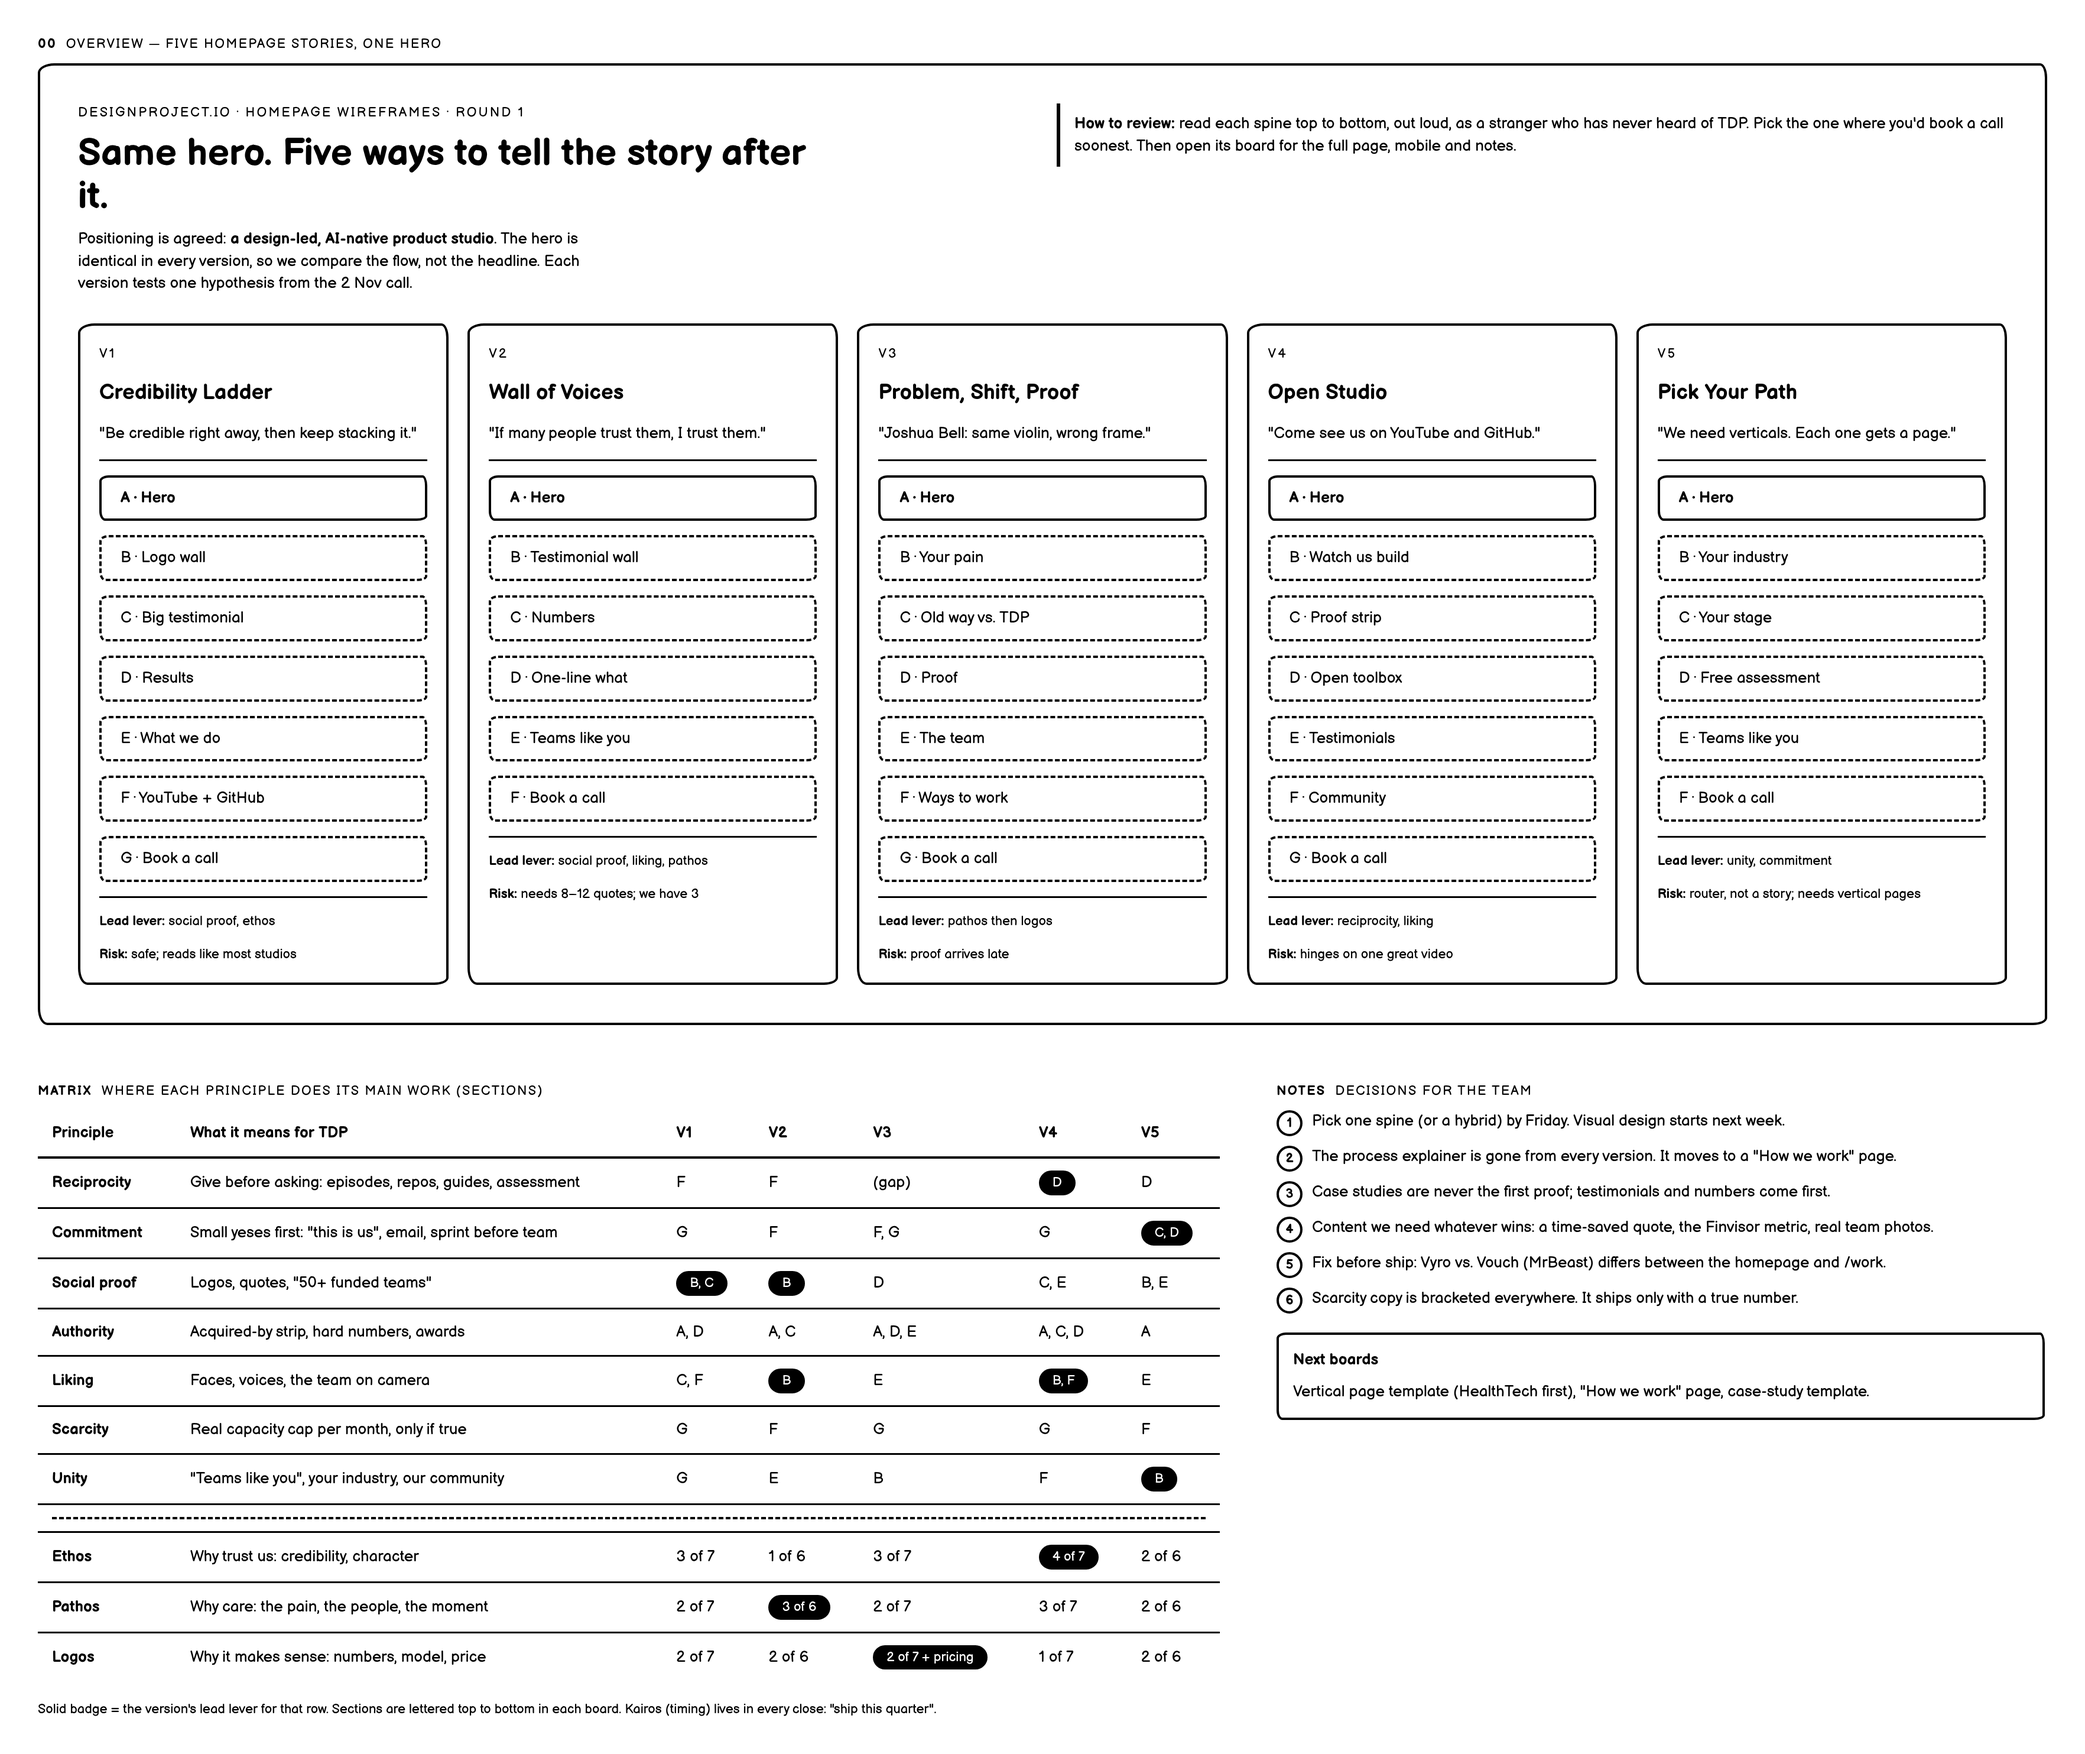
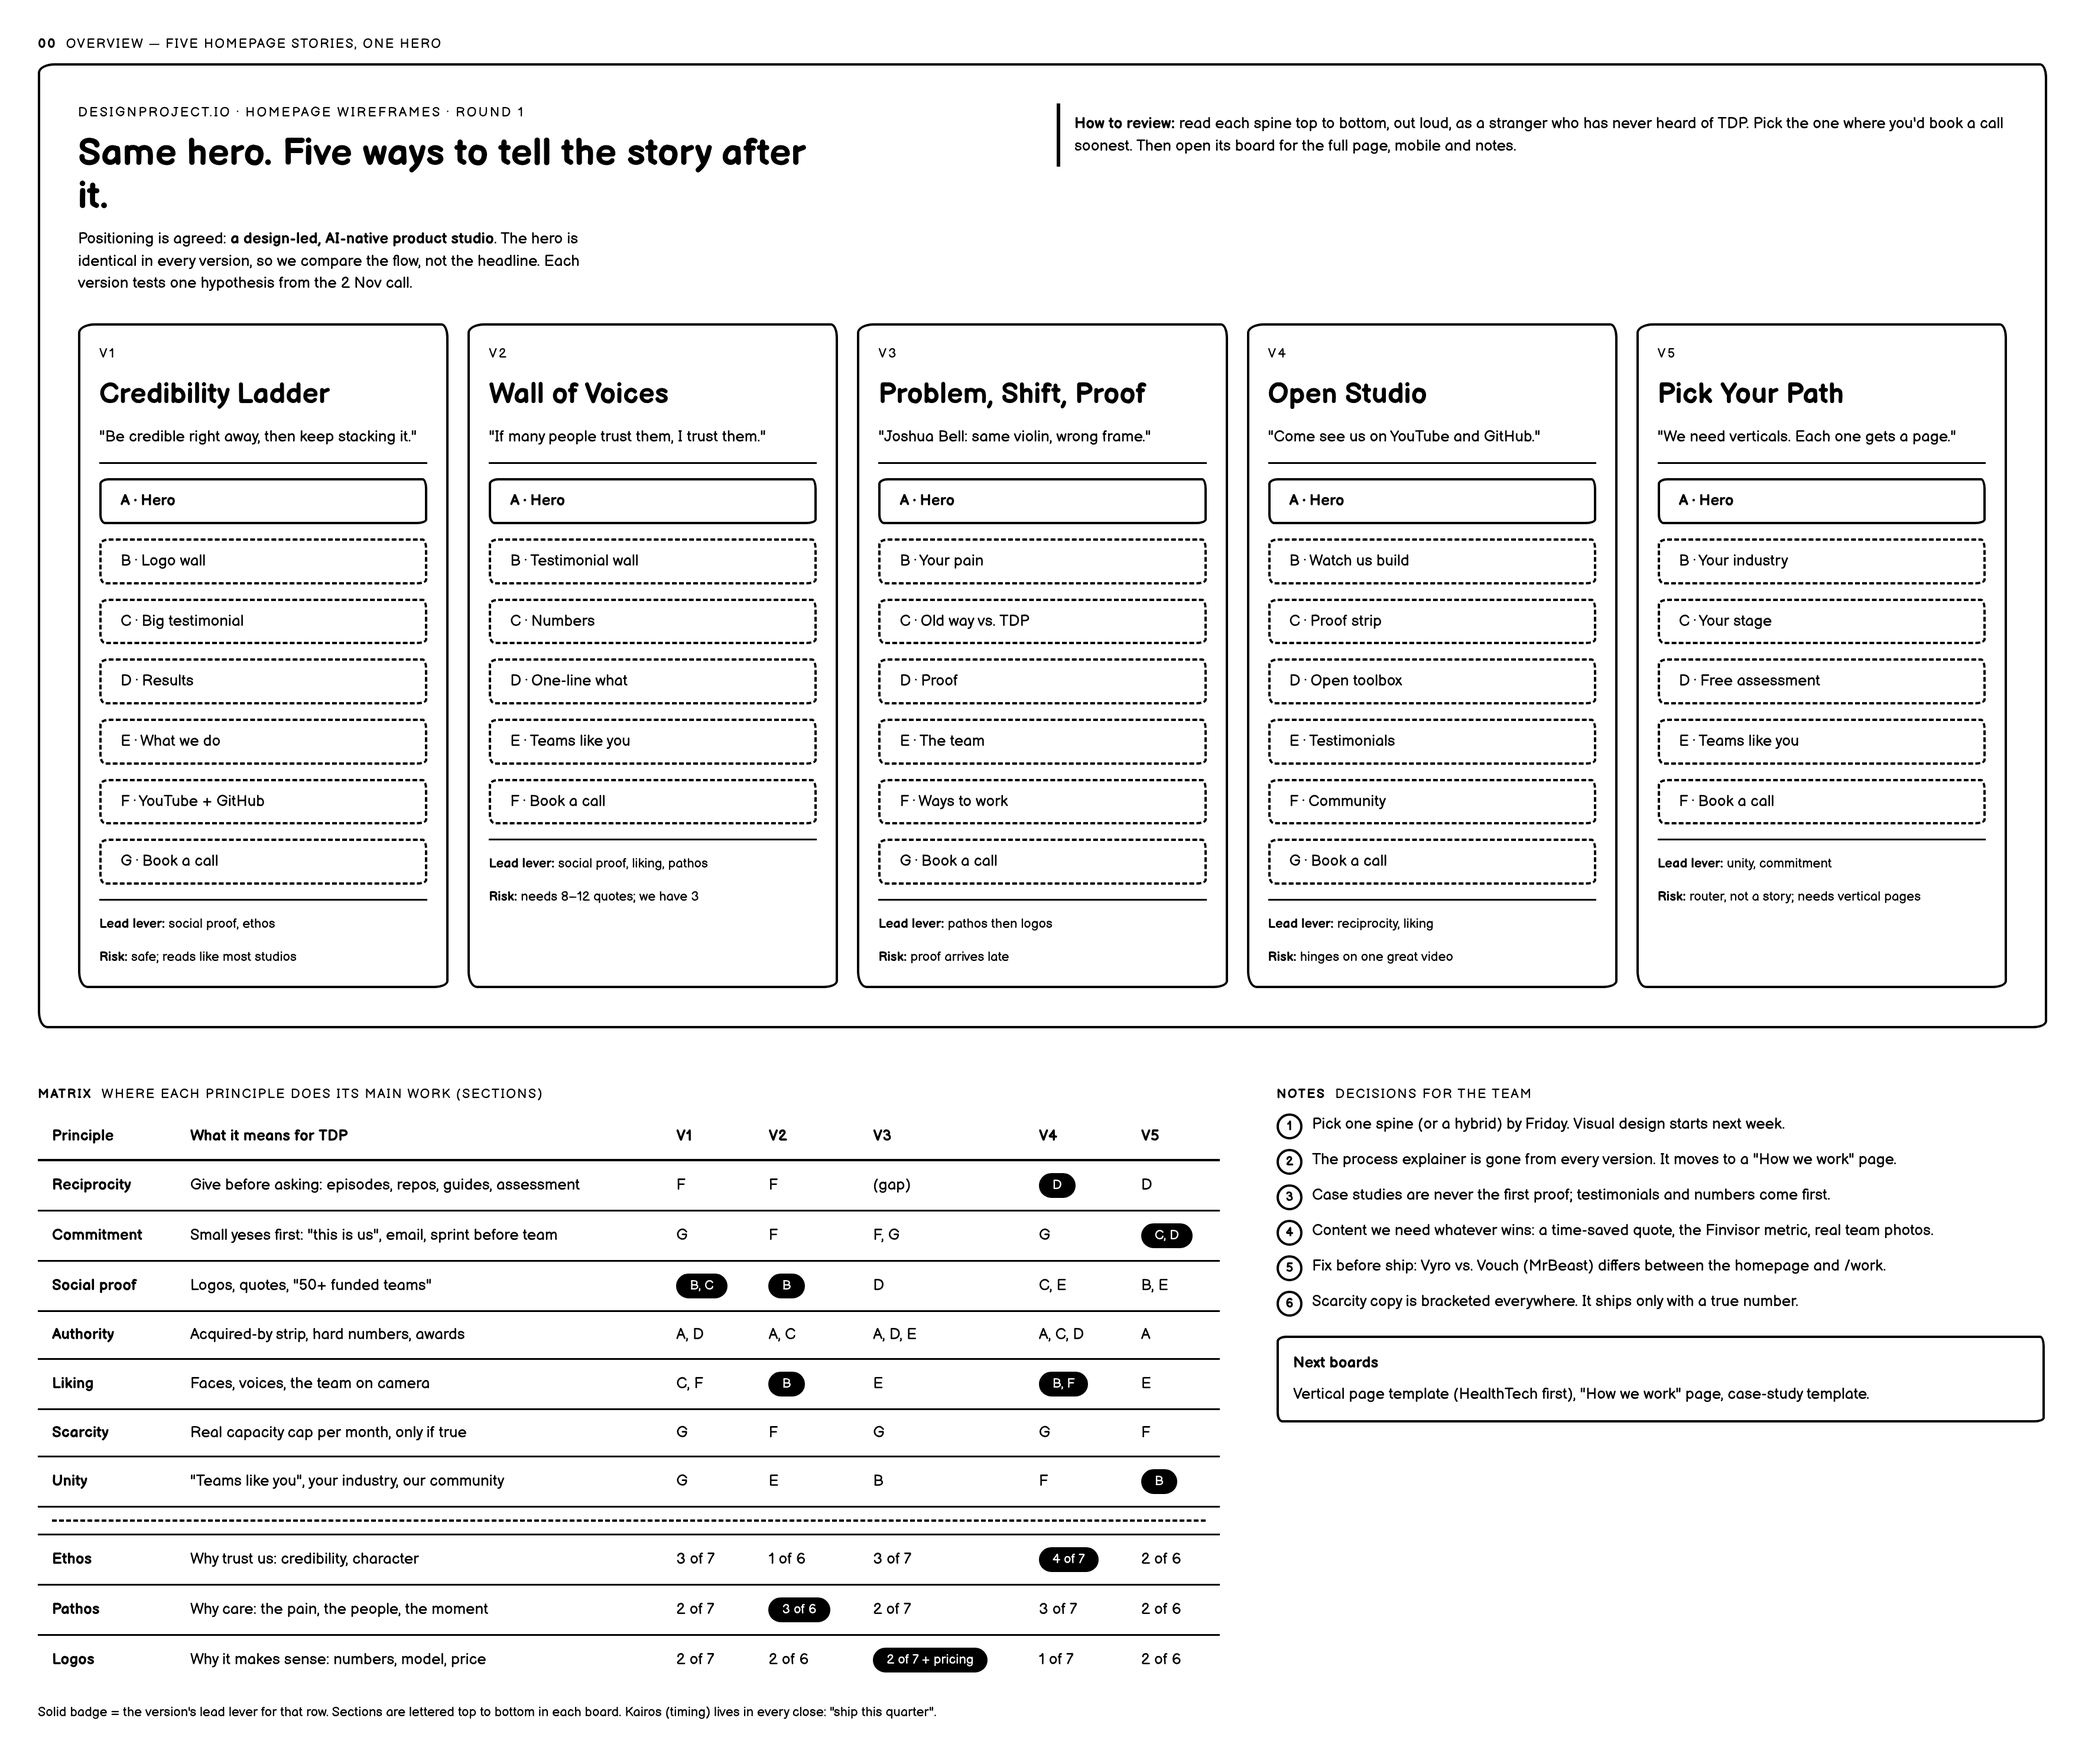
fix(wireframes): overview card titles are h2, scope detector ignores
The detector cannot resolve wireframe.css (render.sh inlines it from the
skill), so it misreads the type scale and card padding. Ignores are
scoped to each board file.

diff --git a/wireframes/designproject-io/00-overview.standalone.html b/wireframes/designproject-io/00-overview.standalone.html
@@ -395,7 +395,7 @@ small { font-size: var(--fs-xs); }
 
 .media--hero { min-height: 340px; }
 .media--thumb { min-height: 72px; }
-.media--circle { border-radius: 50%; }
+.media--circle { border-radius: 50%; aspect-ratio: 1; }
 
 .media__tag {
   position: absolute;
@@ -680,7 +680,7 @@ small { font-size: var(--fs-xs); }
 
         <div class="card stack">
           <p class="eyebrow">V1</p>
-          <h3>Credibility Ladder</h3>
+          <h2>Credibility Ladder</h2>
           <p class="muted">"Be credible right away, then keep stacking it."</p>
           <div class="rule"></div>
           <span class="flow__step">A · Hero</span>
@@ -697,7 +697,7 @@ small { font-size: var(--fs-xs); }
 
         <div class="card stack">
           <p class="eyebrow">V2</p>
-          <h3>Wall of Voices</h3>
+          <h2>Wall of Voices</h2>
           <p class="muted">"If many people trust them, I trust them."</p>
           <div class="rule"></div>
           <span class="flow__step">A · Hero</span>
@@ -713,7 +713,7 @@ small { font-size: var(--fs-xs); }
 
         <div class="card stack">
           <p class="eyebrow">V3</p>
-          <h3>Problem, Shift, Proof</h3>
+          <h2>Problem, Shift, Proof</h2>
           <p class="muted">"Joshua Bell: same violin, wrong frame."</p>
           <div class="rule"></div>
           <span class="flow__step">A · Hero</span>
@@ -730,7 +730,7 @@ small { font-size: var(--fs-xs); }
 
         <div class="card stack">
           <p class="eyebrow">V4</p>
-          <h3>Open Studio</h3>
+          <h2>Open Studio</h2>
           <p class="muted">"Come see us on YouTube and GitHub."</p>
           <div class="rule"></div>
           <span class="flow__step">A · Hero</span>
@@ -747,7 +747,7 @@ small { font-size: var(--fs-xs); }
 
         <div class="card stack">
           <p class="eyebrow">V5</p>
-          <h3>Pick Your Path</h3>
+          <h2>Pick Your Path</h2>
           <p class="muted">"We need verticals. Each one gets a page."</p>
           <div class="rule"></div>
           <span class="flow__step">A · Hero</span>

diff --git a/wireframes/designproject-io/00-overview.html b/wireframes/designproject-io/00-overview.html
@@ -28,7 +28,7 @@
 
         <div class="card stack">
           <p class="eyebrow">V1</p>
-          <h3>Credibility Ladder</h3>
+          <h2>Credibility Ladder</h2>
           <p class="muted">"Be credible right away, then keep stacking it."</p>
           <div class="rule"></div>
           <span class="flow__step">A · Hero</span>
@@ -45,7 +45,7 @@
 
         <div class="card stack">
           <p class="eyebrow">V2</p>
-          <h3>Wall of Voices</h3>
+          <h2>Wall of Voices</h2>
           <p class="muted">"If many people trust them, I trust them."</p>
           <div class="rule"></div>
           <span class="flow__step">A · Hero</span>
@@ -61,7 +61,7 @@
 
         <div class="card stack">
           <p class="eyebrow">V3</p>
-          <h3>Problem, Shift, Proof</h3>
+          <h2>Problem, Shift, Proof</h2>
           <p class="muted">"Joshua Bell: same violin, wrong frame."</p>
           <div class="rule"></div>
           <span class="flow__step">A · Hero</span>
@@ -78,7 +78,7 @@
 
         <div class="card stack">
           <p class="eyebrow">V4</p>
-          <h3>Open Studio</h3>
+          <h2>Open Studio</h2>
           <p class="muted">"Come see us on YouTube and GitHub."</p>
           <div class="rule"></div>
           <span class="flow__step">A · Hero</span>
@@ -95,7 +95,7 @@
 
         <div class="card stack">
           <p class="eyebrow">V5</p>
-          <h3>Pick Your Path</h3>
+          <h2>Pick Your Path</h2>
           <p class="muted">"We need verticals. Each one gets a page."</p>
           <div class="rule"></div>
           <span class="flow__step">A · Hero</span>
